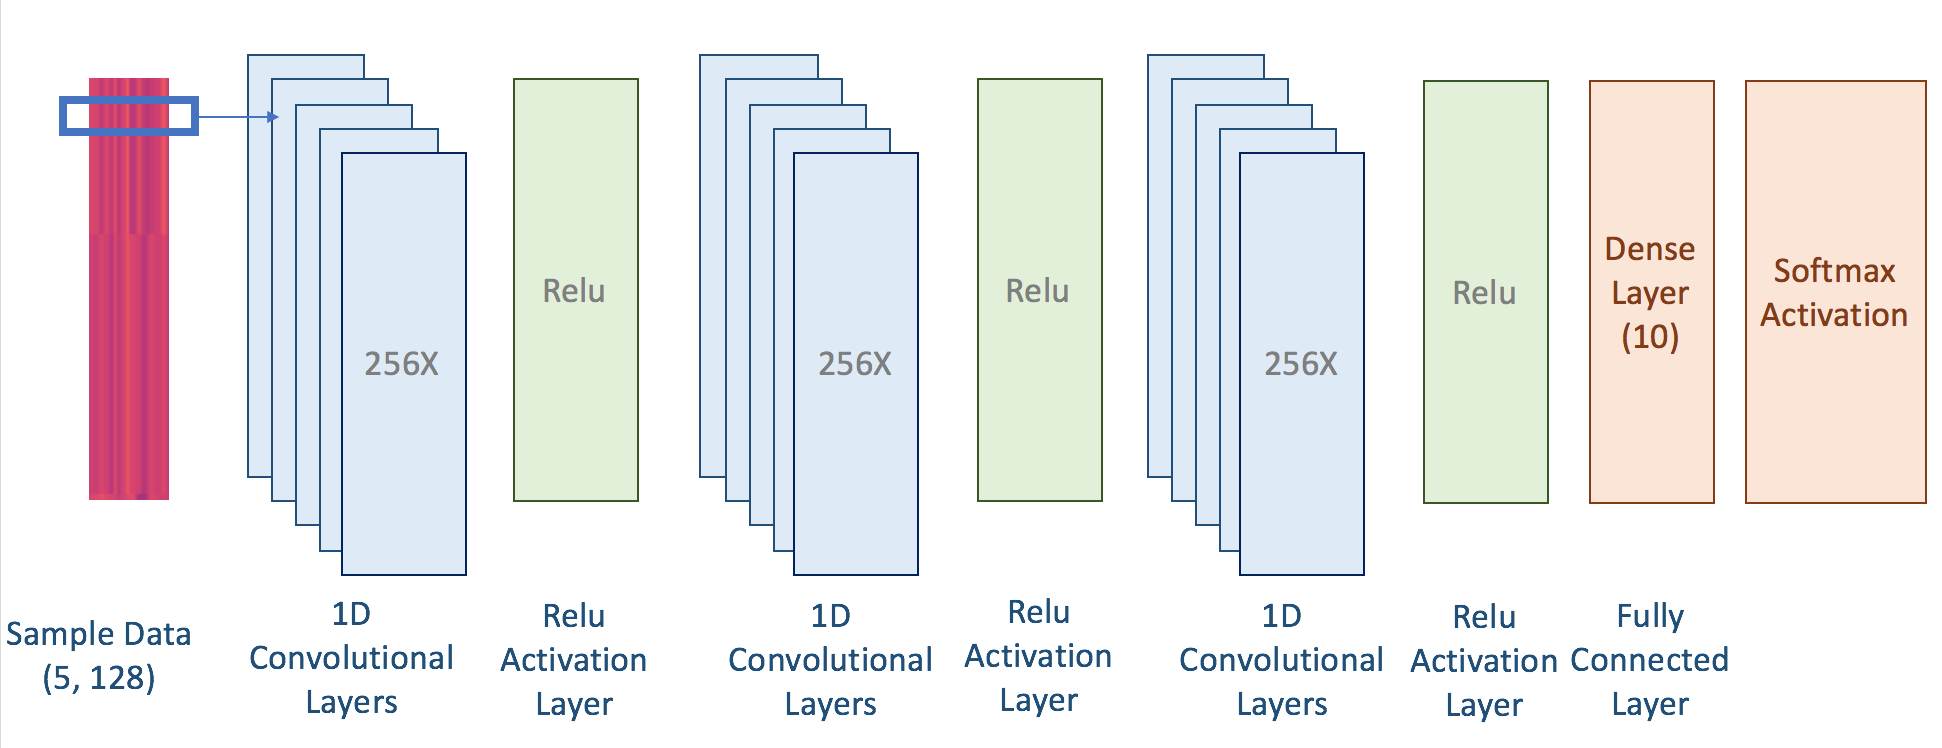
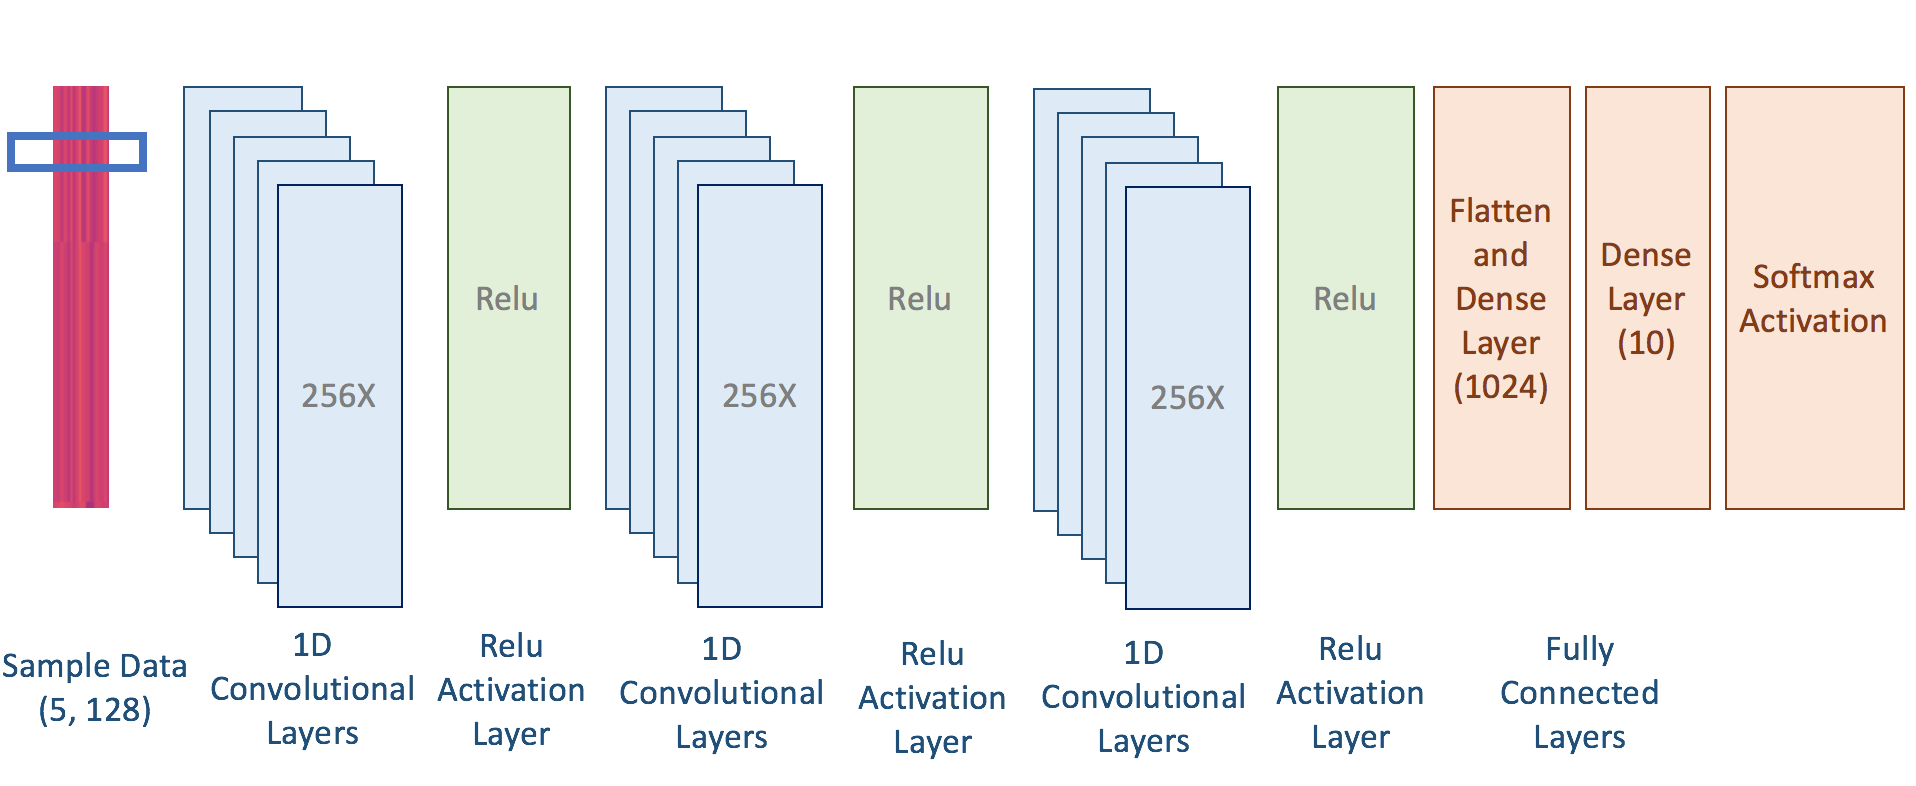
Updating the network image

diff --git a/blog/MusicGenreClassification.html b/blog/MusicGenreClassification.html
@@ -33,7 +33,7 @@
 
       <div class="blog-header">
         <h1 class="blog-title">Music Genre Classification Using Convolutional Neural Network</h1>
-        <p class="lead blog-description">Using Convolutional Neural Network to predict a song's genre (This is still in draft phase)</p>
+        <p class="lead blog-description">Using Convolutional Neural Network to predict a song's genre</p>
       </div>
 
 
@@ -42,14 +42,15 @@
                 <div class="blog-post">
                   <p>
                     This post provides a simple and brief overview of what Covolutional Neural Networks are and how to use them to predict the
-                    genre of any songs. I will go into a lot of details so buckle up cause this will be a long post
+                    genre of any songs. I will go into a lot of details so buckle up cause this is gonna be a long post
                   </p>
 
 
                   <p>
                     <h2>Convolutional Neural Network</h2>
-                      Convolutional Neural Networks (CNNs) are a special type of Neural Network in which have special convolutional layers instead
-                      of the usual fully connected layers. The history of CNNs can be traced to Image processing and recognition. Basically,
+                      Convolutional Neural Networks (CNNs) are a special type of Neural Network which have special convolutional layers in addition
+                      of the usual fully connected layers. These convolutional layers are notthing but filters which slide over the data to produce
+                      output. The history of CNNs can be traced to Image processing and recognition. Basically,
                       earlier for any sort of image recognition what people used to do was to generate hand crafted features based on their
                       intuition and understanding of the problem domain. Take for example the following task of recognizing the digit in an image
                       <figure>
@@ -70,7 +71,7 @@
                       the depth of the filter is same as that of the image so if the image has 3 channels Red Green and Blue, then the depth of
                       the filter will be automatically set to 3). The
                       awesome thing about a convolutional network though is that you don't have to worry about designing the filters themselves.
-                      The training portion of the network takes care of that. And his is the exact thing that made CNNs so popular as before the
+                      The training portion of the network takes care of that. And this is the exact thing that made CNNs so popular as before the
                       major challenge in any image recognition task was to come with the hand crafted features and corresponding filters for them.
                   </p>
 
@@ -90,16 +91,18 @@
                       Non Linear Activation functions are what gives neural networks their advantage over other machine learning methods. These
                       activations are inspired from the process that happen in our own neuron. However, they are really just a very crude and
                       rudimentary approximation of the actual process. Common Activation functions are: sigmoid, tanh and relu. Though sigmoid in
-                      the most known function in all of them but sadly it is also the least used one. The most commonly used actication function
-                      is relu, it is actually advised by practitioners to use relu first before experimenting with other functions
+                      the most known function in all of them but sadly it is also the least used one. The most commonly used activation function
+                      is relu, which is simply <i>Max(0, x)</i> where <i>x</i> is the input to the activation function. The reason
+                      relu works better than other activation functions is that it does not saturate, where as both sigmoid and tanh saturate as they
+                      reach their min or max value which causes the gradients to become very very small causing the network to not learn.
                     </p>
                   <h4>Pooling<h4>
                     <p>
                       Pooling is a way to reduce the size of the input to any of the layers in the network. Basically as done with the filters before
-                      a matrix is slided over the output of the Non Linear Activation layer. This matrix however is not learnable and it has to be
+                      a matrix is slided over the output of the Non Linear Activation layer. This matrix however is not learnable and has to be
                       specified while describing the network. There are many type of pooling operations such as min, max, average, etc. . The most
-                      common type of pooling is max pooling, in it a window of size specified during network construction is slid over the output
-                      of the last layer and the max value is found to replace the window with that max value.
+                      common type of pooling is max pooling, in it a window of size specified during network construction. This window is slid
+                      over the input to the layer and the max value is found to replace the window with that max value.
                     </p>
                   <h4>Dropout</h4>
                     <p>
@@ -108,7 +111,8 @@
                       ensembles of networks, someting similar to what happens in a Random Forest or any other Boosted tree methods. Basically,
                       by deactivating some random neurons you ensure that the models does not learn only in a particular direction but rather tries
                       and generalize as much as possible. This is also the reason why Dropout is used as a regularization method to improve model
-                      generalization
+                      generalization. Another reason why people use dropout is that by randomly deactivating certain neurons, you can force
+                      gradients to flow through the network making it learn better.
                     </p>
 
                   <p>
@@ -142,7 +146,7 @@
                     raw audio clip like to we do for images and even if the clips are of size 100ms (this is what we will do a bit later),
                     the input layer would need 4410 neurons. This is not particularly a lot but if you want to train it on your local machine, this
                     might cause an issue as the for each neuron in the network we have to store some data for back propogation and training. So if there
-                    are a lot of neurons in the network, more than for which the data could be stored in the RAM, the train will be very very high.
+                    are a lot of neurons in the network, more than for which the data could be stored in the RAM, the training time will be very very high.
                   </p>
                   <p>
                     So in order to represent the audio file we will use something that is known as a Mel Spectogram. It is basically a spectogram with
@@ -197,6 +201,11 @@ model.add(Conv1D(CONV_FILTER_COUNT, FILTER_LENGTH, kernel_initializer = 'glorot_
 model.add(Activation("relu"))
 model.add(Conv1D(CONV_FILTER_COUNT, FILTER_LENGTH, kernel_initializer = 'glorot_uniform', padding = 'same'))
 model.add(Activation("relu"))
+
+model.add(Flatten())
+model.add(Dense(1024))
+model.add(Activation("relu"))
+model.add(Dropout(dropOut))
 model.add(Dense(len(data)))
 model.add(Activation('softmax',name='softmax_layer'))
 
@@ -217,7 +226,7 @@ model.compile(loss=keras.losses.categorical_crossentropy,
                   </p>
                   <p>
                     I am using Adadelta for training the network, which basically maintains seperate gradient value for each of the dimension.
-                    It further updated the gradient at each step by dividing it by the decaying sum of the previous gradient values. If you want to
+                    It further updates the gradient at each step by dividing it by the decaying sum of the previous gradient values. If you want to
                     better understand what Adadelta does I would recommend reading this <a href="http://sebastianruder.com/optimizing-gradient-descent/">post</a>.
                     So the network that we built just now looks like the following.
                   </p>
@@ -225,7 +234,22 @@ model.compile(loss=keras.losses.categorical_crossentropy,
                       <img style = "display: block;margin: 0 auto; width:100%" src="../resources/images/NetworkArchitecture.png" alt='Network Architecture' />
                       <figcaption style = "text-align:center">Network Architecture</figcaption>
                   </figure>
-
+                  <p>
+                    If you look closely at the final architecture, you will notice that I did not use either dropout or Pooling. The reason for this is that
+                    the shape of each of the sample is (5, 128), so it does not makes sense to pool across a vector of length 5. Similarly, because of the
+                    shape the number of neurons at each of the layer will only be 5, so dropping half of them might not give the best results. However, I did
+                    use dropout before by last layer (you can check this in the code) as there I have plenty of neurons (1024 to be exact).
+                    Finally, I trained my model for 10 epochs with early stopping, i.e. if my validation accuracy did not increase for certain number of
+                    epochs then I stop training it further. I initially tried training for 25 ecpochs but I never saw improvement after 7-8th epoch.
+                    The model achieved an accuracy of 62% on the validation set, which is a far cry from the <a href="https://marl.smusic.nyu.edu/wordpress/wp-content/papercite-data/pdf/ISMIR2013_Deep_Learning_Part2_Hamel.pdf">
+                    benchmark of 84% </a>, but is still a lot better than a random guess of 10%.
+                  </p>
+                  <p>
+                    If you have any questions please leave a comment!
+                  </p>
+                  <p>
+                    Cheers!!
+                  </p>
 
                 </div><!-- /.blog-post -->
               </div><!-- /.blog-main -->
